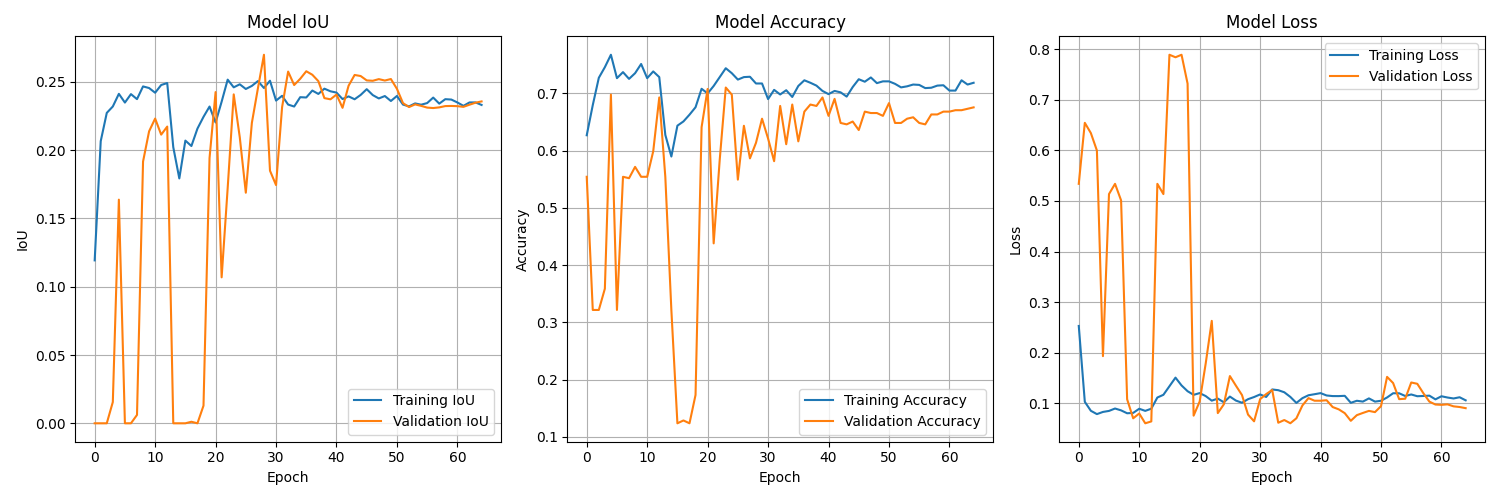
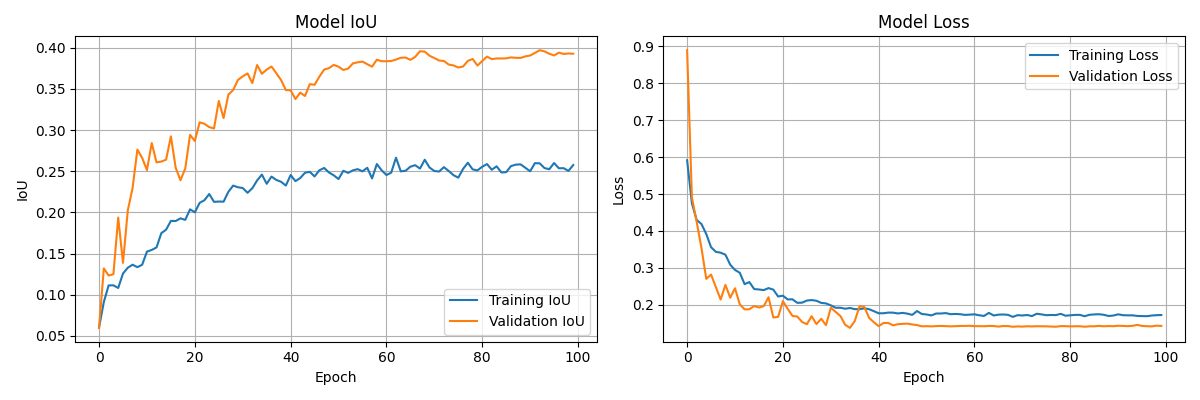
good iou training

Changed region(s): [[0.0, 0.03, 1.0, 0.99], [0.185, 0.93, 0.2158, 0.96]]

diff --git a/hand/training.py b/hand/training.py
@@ -3,7 +3,6 @@ from tensorflow.keras import layers, models
 import numpy as np
 import json
 import cv2
-import os
 from pathlib import Path
 from sklearn.model_selection import train_test_split
 import matplotlib.pyplot as plt
@@ -66,88 +65,8 @@ def iou_metric(y_true, y_pred):
     )
     return tf.reduce_mean(iou_scores)
 
-def apply_augmentation(image, bbox):
-    """Apply augmentations that preserve bounding box coordinates"""
-    augmented_images = []
-    augmented_boxes = []
-    
-    # Make sure image is 3D array (height, width, 1) for grayscale
-    if len(image.shape) == 2:
-        image = np.expand_dims(image, axis=-1)
-    
-    # Original image and box
-    augmented_images.append(image)
-    augmented_boxes.append(bbox)
-    
-    # Horizontal flip
-    flipped_image = cv2.flip(image, 1)
-    flipped_bbox = [1 - bbox[0] - bbox[2], bbox[1], bbox[2], bbox[3]]  # Adjust x coordinate
-    augmented_images.append(flipped_image)
-    augmented_boxes.append(flipped_bbox)
-    
-    # Brightness variations
-    for factor in [0.8, 1.2]:  # Darker and brighter
-        adjusted = np.clip(image * factor, 0, 1)
-        augmented_images.append(adjusted)
-        augmented_boxes.append(bbox)  # Bbox unchanged
-    
-    # Contrast adjustment
-    for factor in [0.8, 1.2]:  # Lower and higher contrast
-        mean = np.mean(image, axis=(0, 1), keepdims=True)
-        adjusted = np.clip((image - mean) * factor + mean, 0, 1)
-        augmented_images.append(adjusted)
-        augmented_boxes.append(bbox)  # Bbox unchanged
-        
-    # Small rotations (only small angles to prevent bbox distortion)
-    for angle in [-10, 10]:  # -10 and +10 degrees
-        center = (image.shape[1] / 2, image.shape[0] / 2)
-        M = cv2.getRotationMatrix2D(center, angle, 1.0)
-        rotated = cv2.warpAffine(image, M, (image.shape[1], image.shape[0]))
-        # Maintain channel dimension
-        if len(rotated.shape) == 2:
-            rotated = np.expand_dims(rotated, axis=-1)
-        
-        # Adjust bbox for rotation
-        # Convert bbox to corners
-        x, y, w, h = bbox
-        corners = np.array([
-            [x, y],
-            [x + w, y],
-            [x + w, y + h],
-            [x, y + h]
-        ])
-        corners = corners * np.array([image.shape[1], image.shape[0]])
-        
-        # Rotate corners
-        ones = np.ones(shape=(len(corners), 1))
-        corners_ones = np.hstack([corners, ones])
-        transformed = M.dot(corners_ones.T).T
-        
-        # Get new bbox
-        min_xy = transformed.min(axis=0)
-        max_xy = transformed.max(axis=0)
-        new_bbox = [
-            min_xy[0] / image.shape[1],
-            min_xy[1] / image.shape[0],
-            (max_xy[0] - min_xy[0]) / image.shape[1],
-            (max_xy[1] - min_xy[1]) / image.shape[0]
-        ]
-        
-        # Only add if bbox is still fully within image
-        if (new_bbox[0] >= 0 and new_bbox[1] >= 0 and
-            new_bbox[0] + new_bbox[2] <= 1 and
-            new_bbox[1] + new_bbox[3] <= 1):
-            augmented_images.append(rotated)
-            augmented_boxes.append(new_bbox)
-    
-    # Make sure all images have the same shape (height, width, 1)
-    augmented_images = [np.expand_dims(img, axis=-1) if len(img.shape) == 2 else img 
-                       for img in augmented_images]
-    
-    return augmented_images, augmented_boxes
-
 def load_hand_dataset(dataset_path, image_size=(224, 224)):
-    """Load hand detection dataset with augmentations"""
+    """Load hand detection dataset without augmentations"""
     dataset_path = Path(dataset_path)
     images_dir = dataset_path / "images"
     annotations_file = dataset_path / "annotations.json"
@@ -169,7 +88,7 @@ def load_hand_dataset(dataset_path, image_size=(224, 224)):
         try:
             # Load image
             image_path = images_dir / img_ann['file_name']
-            image = cv2.imread(str(image_path), cv2.IMREAD_GRAYSCALE)  # Load as grayscale
+            image = cv2.imread(str(image_path), cv2.IMREAD_GRAYSCALE)
             
             if image is None:
                 print(f"Failed to load image: {image_path}")
@@ -183,11 +102,8 @@ def load_hand_dataset(dataset_path, image_size=(224, 224)):
             # Get bbox
             bbox = img_ann['bbox']
             
-            # Apply augmentations
-            aug_images, aug_boxes = apply_augmentation(image, bbox)
-            
-            images.extend(aug_images)
-            boxes.extend(aug_boxes)
+            images.append(image)
+            boxes.append(bbox)
             
             if idx % 100 == 0:
                 print(f"Processed {idx}/{total_images} images")
@@ -199,7 +115,7 @@ def load_hand_dataset(dataset_path, image_size=(224, 224)):
     if len(images) == 0:
         raise ValueError("No images loaded from dataset")
     
-    print(f"Successfully loaded {len(images)} images (including augmentations)")
+    print(f"Successfully loaded {len(images)} images")
     return np.array(images), np.array(boxes)
 
 def create_model(input_shape=(224, 224, 1)):
@@ -213,16 +129,24 @@ def create_model(input_shape=(224, 224, 1)):
     model = models.Sequential([
         layers.Lambda(lambda x: tf.image.grayscale_to_rgb(x)),
         base_model,
-        layers.Conv2D(256, 3, activation='relu'),
         layers.GlobalAveragePooling2D(),
-        layers.Dense(256, activation='relu'),
-        layers.Dropout(0.5),
-        layers.Dense(128, activation='relu'),
-        layers.Dense(4, activation='sigmoid')
+        layers.Dense(64, 
+                    activation='relu', 
+                    kernel_regularizer=tf.keras.regularizers.l2(0.001)),  # Reduced from 0.01
+        layers.BatchNormalization(),
+        layers.Dropout(0.3),  # Reduced dropout
+        layers.Dense(32, 
+                    activation='relu',
+                    kernel_regularizer=tf.keras.regularizers.l2(0.001)),
+        layers.BatchNormalization(),
+        layers.Dropout(0.3),
+        layers.Dense(4, 
+                    activation='sigmoid',
+                    kernel_regularizer=tf.keras.regularizers.l2(0.001))
     ])
     return model
 
-def train_model(dataset_path, epochs=65, batch_size=32):
+def train_model(dataset_path, epochs=100, batch_size=32):
     """Train the hand detection model"""
     # Load dataset
     images, boxes = load_hand_dataset(dataset_path)
@@ -238,9 +162,9 @@ def train_model(dataset_path, epochs=65, batch_size=32):
     # Create and compile model
     model = create_model()
     model.compile(
-        optimizer=tf.keras.optimizers.legacy.Adam(learning_rate=0.001),
+        optimizer=tf.keras.optimizers.Adam(learning_rate=0.0001),
         loss=custom_bbox_loss(width_weight=2.0),
-        metrics=['accuracy', 'mae', iou_metric]
+        metrics=['mae', iou_metric]
     )
     
     # Create callbacks
@@ -251,14 +175,14 @@ def train_model(dataset_path, epochs=65, batch_size=32):
             save_weights_only=True,
             monitor='val_iou_metric',
             mode='max',
-            verbose=1
+            verbose=0
         ),
         tf.keras.callbacks.ReduceLROnPlateau(
             monitor='val_loss',
             factor=0.5,
             patience=5,
             min_lr=1e-6,
-            verbose=1
+            verbose=0
         )
     ]
     
@@ -274,10 +198,10 @@ def train_model(dataset_path, epochs=65, batch_size=32):
     )
     
     # Plot training history
-    plt.figure(figsize=(15, 5))
-    
+    plt.figure(figsize=(12, 4))
+
     # Plot IoU
-    plt.subplot(1, 3, 1)
+    plt.subplot(1, 2, 1)
     plt.plot(history.history['iou_metric'], label='Training IoU')
     plt.plot(history.history['val_iou_metric'], label='Validation IoU')
     plt.title('Model IoU')
@@ -285,19 +209,9 @@ def train_model(dataset_path, epochs=65, batch_size=32):
     plt.ylabel('IoU')
     plt.legend(loc='lower right')
     plt.grid(True)
-    
-    # Plot accuracy
-    plt.subplot(1, 3, 2)
-    plt.plot(history.history['accuracy'], label='Training Accuracy')
-    plt.plot(history.history['val_accuracy'], label='Validation Accuracy')
-    plt.title('Model Accuracy')
-    plt.xlabel('Epoch')
-    plt.ylabel('Accuracy')
-    plt.legend(loc='lower right')
-    plt.grid(True)
-    
+
     # Plot loss
-    plt.subplot(1, 3, 3)
+    plt.subplot(1, 2, 2)
     plt.plot(history.history['loss'], label='Training Loss')
     plt.plot(history.history['val_loss'], label='Validation Loss')
     plt.title('Model Loss')
@@ -305,7 +219,7 @@ def train_model(dataset_path, epochs=65, batch_size=32):
     plt.ylabel('Loss')
     plt.legend(loc='upper right')
     plt.grid(True)
-    
+
     plt.tight_layout()
     plt.savefig('training_history.png')
     plt.close()
@@ -414,7 +328,7 @@ if __name__ == "__main__":
     np.random.seed(42)
     
     # Set path to your dataset
-    dataset_path = "hand_dataset"
+    dataset_path = "hand_dataset_augmented"
     
     # Train model
     model, training_history = train_model(dataset_path)

diff --git a/hand/detector.py b/hand/detector.py
@@ -1,0 +1,140 @@
+import cv2
+import numpy as np
+import tensorflow as tf
+from pathlib import Path
+
+class HandDetector:
+    def __init__(self, model_path):
+        """Initialize hand detector"""
+        self.model = tf.keras.models.load_model(
+            model_path, 
+            custom_objects={
+                'loss': custom_bbox_loss(width_weight=2.0),
+                'iou_metric': iou_metric
+            },
+            safe_mode=False
+        )
+        self.input_size = (224, 224)
+        self.cap = cv2.VideoCapture(0)
+        
+    def preprocess_frame(self, frame):
+        """Preprocess frame for model input"""
+        # Convert to grayscale
+        gray = cv2.cvtColor(frame, cv2.COLOR_BGR2GRAY)
+        # Resize
+        resized = cv2.resize(gray, self.input_size)
+        # Normalize
+        normalized = resized.astype(np.float32) / 255.0
+        # Add channel dimension
+        processed = np.expand_dims(normalized, axis=-1)
+        # Add batch dimension
+        processed = np.expand_dims(processed, axis=0)
+        return processed
+        
+    def draw_bbox(self, frame, bbox, color=(0, 255, 0)):
+        """Draw bounding box on frame"""
+        h, w = frame.shape[:2]
+        x, y, box_w, box_h = bbox
+        
+        # Denormalize coordinates
+        x = int(x * w)
+        y = int(y * h)
+        box_w = int(box_w * w)
+        box_h = int(box_h * h)
+        
+        # Draw rectangle
+        cv2.rectangle(frame, (x, y), (x + box_w, y + box_h), color, 2)
+        
+        return frame
+    
+    def run(self):
+        """Run the hand detector on webcam feed"""
+        print("Starting hand detection...")
+        print("Press 'q' to quit")
+        
+        while True:
+            ret, frame = self.cap.read()
+            if not ret:
+                break
+                
+            # Flip frame horizontally for more natural interaction
+            frame = cv2.flip(frame, 1)
+            
+            # Preprocess frame
+            processed = self.preprocess_frame(frame)
+            
+            # Get prediction
+            prediction = self.model.predict(processed, verbose=0)[0]
+            
+            # Draw bounding box
+            frame = self.draw_bbox(frame, prediction)
+            
+            # Add text overlay
+            cv2.putText(
+                frame,
+                "Hand Detection",
+                (10, 30),
+                cv2.FONT_HERSHEY_SIMPLEX,
+                1,
+                (0, 255, 0),
+                2
+            )
+            
+            # Show frame
+            cv2.imshow('Hand Detection', frame)
+            
+            # Check for quit
+            if cv2.waitKey(1) & 0xFF == ord('q'):
+                break
+                
+        self.cap.release()
+        cv2.destroyAllWindows()
+
+def custom_bbox_loss(width_weight=2.0):
+    """Custom loss function with higher weight for width prediction"""
+    def loss(y_true, y_pred):
+        coord_loss = tf.reduce_mean(tf.square(y_true[:, :2] - y_pred[:, :2]))
+        width_loss = width_weight * tf.reduce_mean(tf.square(y_true[:, 2] - y_pred[:, 2]))
+        height_loss = tf.reduce_mean(tf.square(y_true[:, 3] - y_pred[:, 3]))
+        return coord_loss + width_loss + height_loss
+    return loss
+
+def iou_metric(y_true, y_pred):
+    """IoU metric for model evaluation"""
+    def calculate_iou(box1, box2):
+        # Convert to [x1, y1, x2, y2] format
+        b1_x1, b1_y1 = box1[0], box1[1]
+        b1_x2, b1_y2 = box1[0] + box1[2], box1[1] + box1[3]
+        b2_x1, b2_y1 = box2[0], box2[1]
+        b2_x2, b2_y2 = box2[0] + box2[2], box2[1] + box2[3]
+        
+        # Calculate intersection
+        x_left = max(b1_x1, b2_x1)
+        y_top = max(b1_y1, b2_y1)
+        x_right = min(b1_x2, b2_x2)
+        y_bottom = min(b1_y2, b2_y2)
+        
+        if x_right < x_left or y_bottom < y_top:
+            return 0.0
+        
+        intersection = (x_right - x_left) * (y_bottom - y_top)
+        
+        # Calculate union
+        b1_area = (b1_x2 - b1_x1) * (b1_y2 - b1_y1)
+        b2_area = (b2_x2 - b2_x1) * (b2_y2 - b2_y1)
+        union = b1_area + b2_area - intersection
+        
+        return intersection / union if union > 0 else 0.0
+    
+    iou_scores = tf.py_function(
+        lambda y_t, y_p: np.array([calculate_iou(t, p) for t, p in zip(y_t.numpy(), y_p.numpy())], dtype=np.float32),
+        [y_true, y_pred],
+        tf.float32
+    )
+    return tf.reduce_mean(iou_scores)
+
+if __name__ == "__main__":
+    model_path = "final_hand_detection_model.keras"  # Update this path if needed
+    
+    detector = HandDetector(model_path)
+    detector.run()
